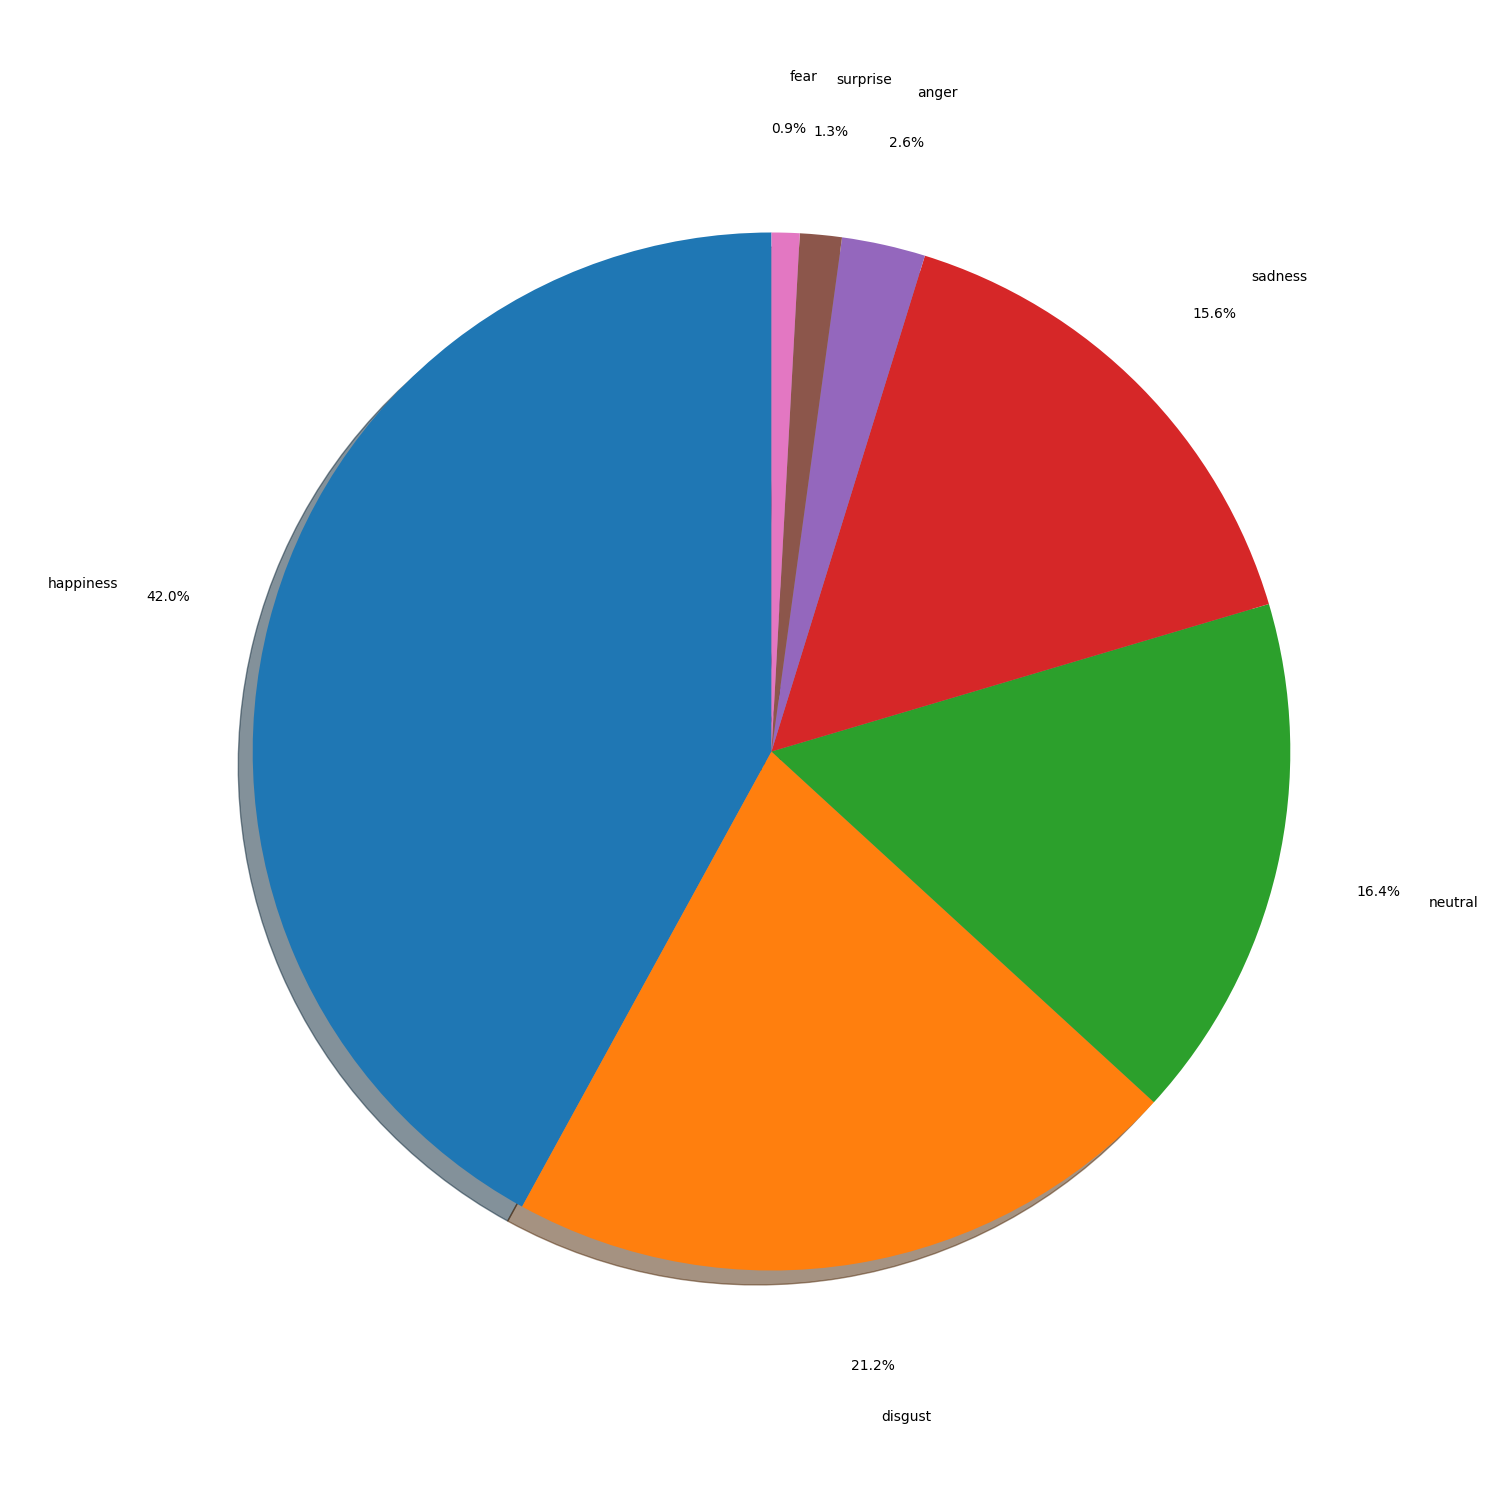
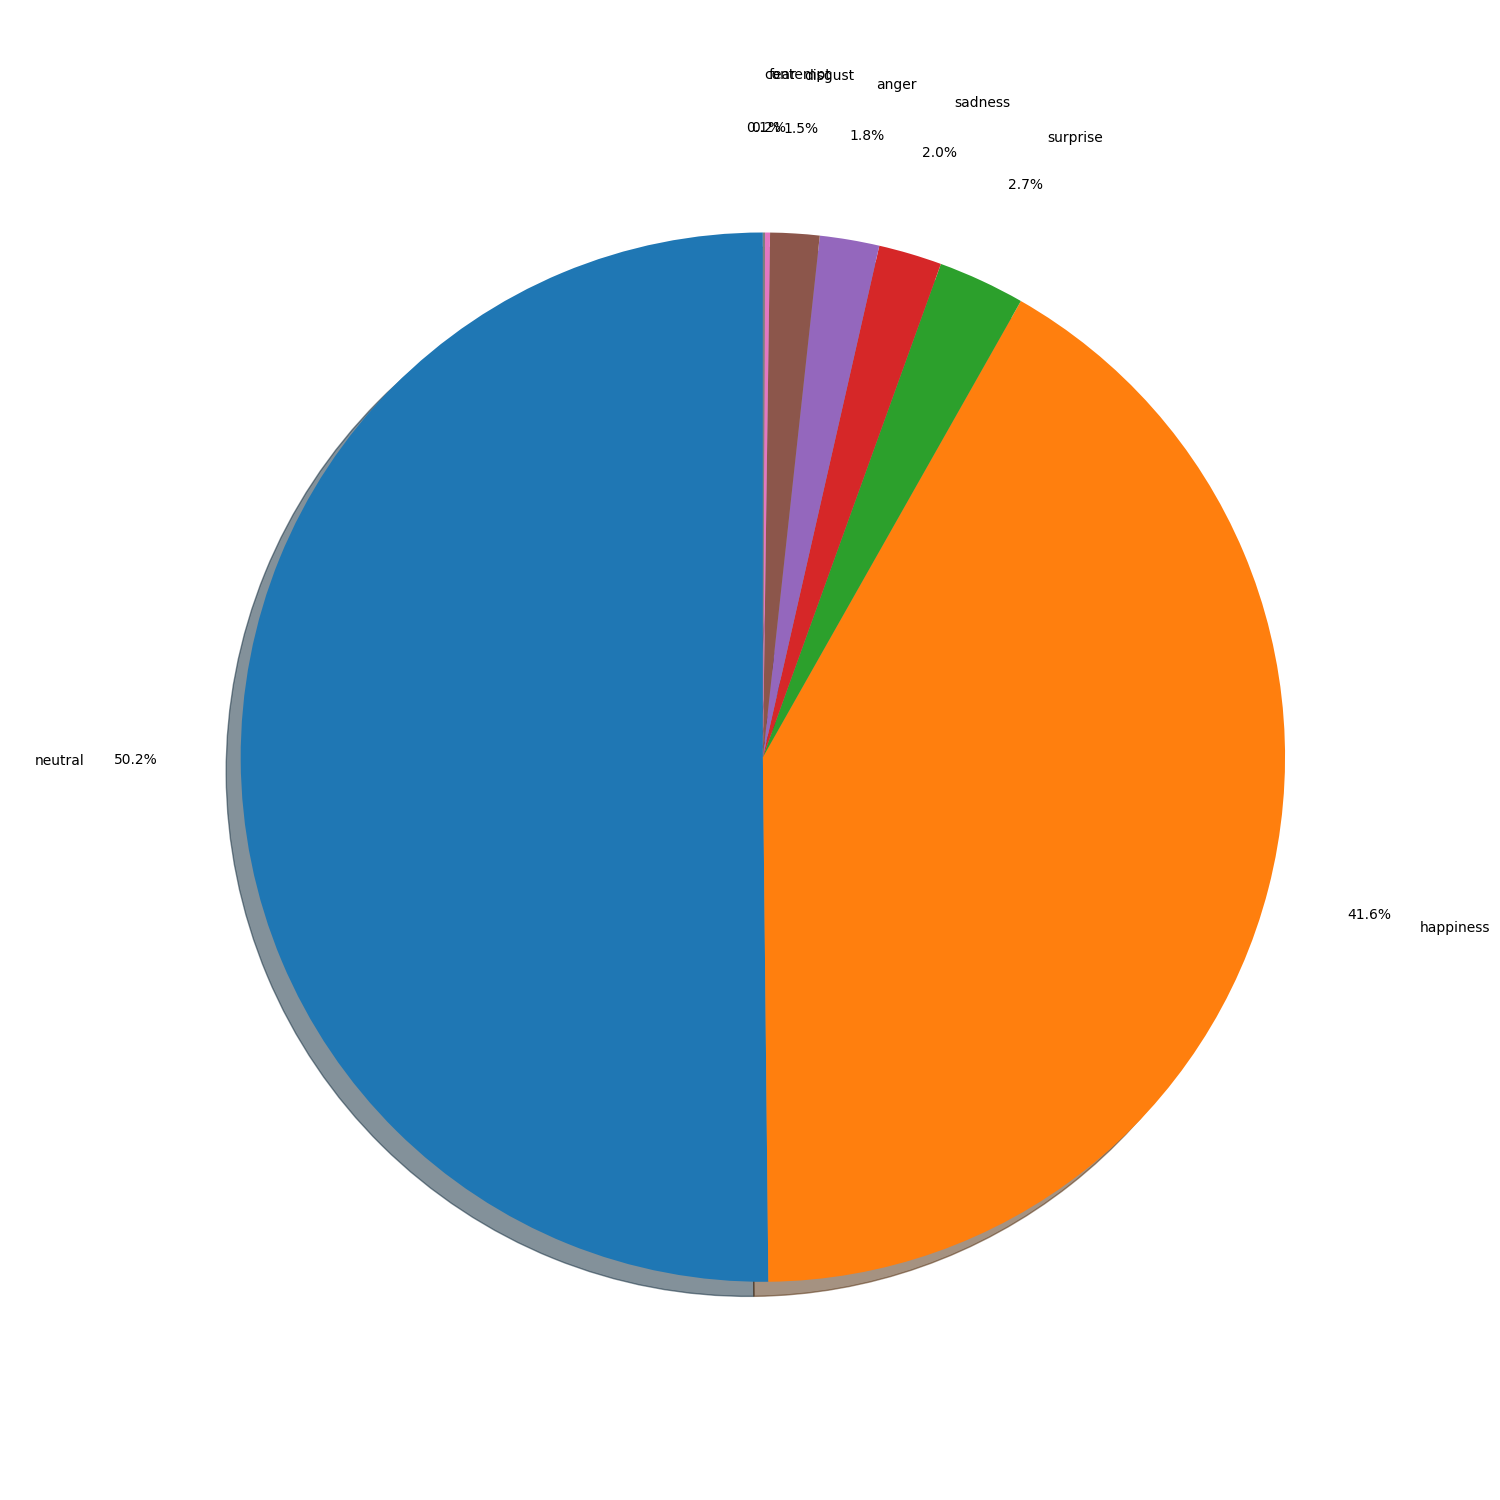
Fixed dvc

diff --git a/main.py b/main.py
@@ -1,13 +1,13 @@
 import os
 import PIL
-import PIL.Image
+import PIL.Image as img
 import numpy as np
 import pandas as pd
 import matplotlib.pyplot as plt
 
 
 def pie_plot(data):
-    labels = 'happiness', 'disgust', 'neutral', 'sadness', 'anger', 'surprise', 'fear'
+    labels = 'neutral', 'happiness', 'surprise', 'sadness', 'anger', 'disgust', 'fear', 'contempt'
 
     fig1, ax1 = plt.subplots()
     ax1.pie(data.value_counts(normalize=True), labels=labels, autopct='%1.1f%%',
@@ -22,15 +22,29 @@ def pie_plot(data):
 def main():
     csv1 = pd.read_csv("data/legend.csv")
     csv1 = csv1.drop("user.id", axis=1)
-    csv1 = csv1.set_index("image")
-
     map_dict = {"HAPPINESS": "happiness", "DISGUST": "disgust", "NEUTRAL": "neutral",
                 "SADNESS": "sadness", "FEAR": "fear", "SURPRISE": "surprise", "ANGER": "anger"}
 
-    csv1["emotion"] = csv1["emotion"].map(map_dict)
+    csv1["emotion"] = csv1["emotion"].replace(map_dict)
     print(csv1["emotion"].value_counts(normalize=True))
 
-    pie_plot(csv1["emotion"])
+    # pie_plot(csv1["emotion"])
+
+    # Add dir into image name
+    csv1["image"] = "data/images/" + csv1["image"]
+
+    # Shuffle dataset
+    csv1.sample(n=1, random_state=1)
+
+    image = img.open(csv1["image"][0])
+    plt.imshow(image)
+    plt.show()
+
+    # Convert all images in the same size and greyscale
+
+    # Plot each target example image
+
+    # Tensorflow csv dataset with batches
 
 
 if __name__ == "__main__":
